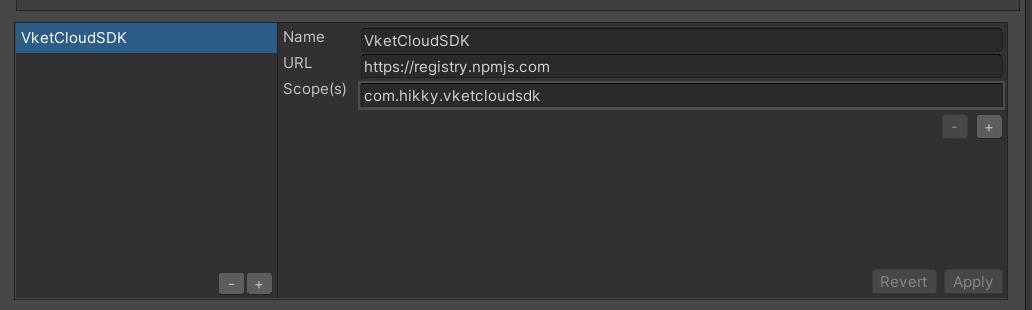
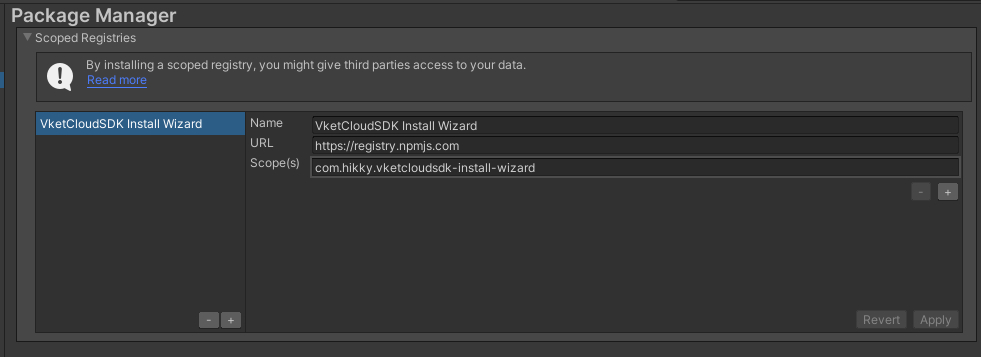
SDKの導入方法：インストールウィザードを使用した方法に内容を変更

diff --git a/docs/AboutVketCloudSDK/SetupSDK_external.en.md b/docs/AboutVketCloudSDK/SetupSDK_external.en.md
@@ -19,11 +19,11 @@ Select "Package Manager" from the left tab in the window and describe as follows
   
 | item | value |
 | ---- | ---- |
-| Name | VketCloud SDK |
+| Name | VketCloudSDK Install Wizard |
 | URL | https://registry.npmjs.com |
-| Scope(s) | com.hikky.vketcloudsdk |
+| Scope(s) | com.hikky.vketcloudsdk-install-wizard |  
 
-   ![Package](img/package.png)
+   ![Package](img/package.jpg)
   Finally, press the "Save" button to save the settings.
   
 ---
@@ -33,21 +33,87 @@ Open the "Packages" window from Unity's menu Window > Package Manager.
 
 Select "My Registries" from the dropdown at the top of the window.
 
-   ![registry](img/registry.png)
+   ![registry](img/registry.jpg)
 
 Select VketCloudSDK from the displayed list and press the “Install” button to start the installation.<br>
 As on default the latest SDK version will be installed, follow the instructions below if you want to [install a specified version](#installing-a-specified-version--updating-an-existing-sdk).
 
 Installation is complete if the item "VketCloudSDK" is added to the Unity menu.
 
-   ![header](img/header.png)
+![InstallationWizard_Window](img/InstallationWizard_Window.jpg)
 
-## Installing a specified version / Updating an existing SDK
-For installing a specified SDK version, or updating an existing SDK on project, switch the SDK version via the Package Manager or by editing manifest.json.
+![InstallationWizard_Menu](img/InstallationWizard_Menu.jpg)
+
+## Step 4. インストールウィザードを使用してSDKをインストールする
+
+新規にSDKをインストールする際はSDKインストールウィザードを使用します。
+
+1\. Unityのメニューから SDK Installation Wizardを選択します。
+
+![InstallationWizard_Menu](img/InstallationWizard_Menu.jpg)
+
+    インストールウィザードを開くと、以下の画面が起動します。
+
+![InstallationWizard_Window](img/InstallationWizard_Window.jpg)
+
+2\. 「次へ」ボタンを押して、言語設定画面に移動します。言語設定画面でWizard内で使用する言語を設定できます。
+
+![InstallationWizard_2_en](img/InstallationWizard_2_en.jpg)
+
+3\. VketCloud SDKの初期設定をガイドする画面です。主に三つの設定を完了させてください。<br>初期設定しないことも可能ですが、その場合、SDKの動作保証はできません。
+
+![InstallationWizard_3_en](img/InstallationWizard_3_en.jpg)
+
+4\. 設定が完了されるとそれぞれの設定項目の左にチェックマークが表示されます。<br>設定されない状態で「次へ」ボタンを押すと以下警告画面が表示されます。
+
+![InstallationWizard_4_en](img/InstallationWizard_4_en.jpg)
+
+5\.「次へ」ボタンを押すと、バージョン選択画面が表示されます。<br>安定版、最新版、バージョンアーカイブからバージョンを選択できます。
 
 !!! note caution
-      On updating an existing SDK, Components may be gone missing after the update.<br>
-      We strongly recommend to take a backup of the pre-update project by duplicating files.
+    バージョンアーカイブ内のバージョンは廃止が予定されております。<br>新規のワールド制作には使用しないようご注意ください。
+
+![InstallationWizard_5_en](img/InstallationWizard_5_en.jpg)
+
+6\. バージョンを選択し、インストールボタンを押すとパッケージのインポートが開始します。
+
+![InstallationWizard_6_en](img/InstallationWizard_6_en.jpg)
+
+7\.　およそ２～５分待つと、インストールが完了して以下の画面が表示されます。この画面からSDKマニュアルやコミュニティDiscordサーバーへとアクセスできます。
+
+![InstallationWizard_7_en](img/InstallationWizard_7_en.jpg)
+
+# 任意のバージョンの導入・既存バージョンSDKのアップデート
+
+既にSDKを導入しているプロジェクトについては、SDK Version Managerを使用してバージョンの切り替え・アップデートが可能です。<br>
+また、以前のSDKバージョンのようにPackage Managerあるいはmanifest.jsonの編集によるバージョン切り替えも引き続き利用可能です。
+
+## SDK Version Managerによるバージョン切り替え
+
+1\. VketCloudSDK_Wizard > SDK Version Managerを押して、バージョン選択画面が表示されます。
+
+![SDKVersionManager_1](img/SDKVersionManager_1.jpg)
+
+2\. バージョン選択画面でバージョンを選択し、インストールボタンを押してください。
+
+!!! note caution
+    バージョンアーカイブ内のバージョンは廃止が予定されております。<br>新規のワールド制作には使用しないようご注意ください。
+
+![InstallationWizard_5_en](img/InstallationWizard_5_en.jpg)
+
+3\. インストールボタンを押すと、インポート画面に移動します。
+
+![SDKVersionManager_3_en](img/SDKVersionManager_3_en.jpg)
+
+4\. インストールが完了すると、バージョン選択完了画面が表示されます。
+
+![SDKVersionManager_4_en](img/SDKVersionManager_4_en.jpg)
+
+この画面からSDKマニュアルやコミュニティDiscordサーバーへとアクセスできます。
+
+!!! note caution
+      既存のSDKのバージョンアップを行う際、アップデート後にComponentが欠落する現象が確認されています。<br>
+      バージョンアップを行う際はプロジェクトの複製などによってバージョンアップ前の状態のバックアップを取ることを強くおすすめします。
 
 ### Version switching via Package Manager
 

diff --git a/docs/changelog/changelog-9.3.ja.md b/docs/changelog/changelog-9.3.ja.md
@@ -1,6 +1,8 @@
 # 追加されたページ
 
 # 変更されたページ
+- [VketCloudSDKの導入方法](https://vrhikky.github.io/VketCloudSDK_Documents/9.3/ja/AboutVketCloudSDK/SetupSDK_external.html)
+    - インストールウィザード及びVersion Managerの使用方法を追加
 - [テクスチャ圧縮](https://vrhikky.github.io/VketCloudSDK_Documents/9.3/ja/heoexporter/he_TextureCompression.html)
     - pvrtcに加えてdxt変換が廃止になったため記述から削除
 

diff --git a/docs/changelog/changelog-9.3.en.md b/docs/changelog/changelog-9.3.en.md
@@ -1,6 +1,8 @@
 # Added Pages
 
 # Edited Pages
+- [How to install VketCloud SDK](https://vrhikky.github.io/VketCloudSDK_Documents/9.3/AboutVketCloudSDK/SetupSDK_external.html)
+    - Added instructions on how to use the install wizard / version manager (English Version WIP)
 - [Texture Compression](https://vrhikky.github.io/VketCloudSDK_Documents/9.3/heoexporter/he_TextureCompression.html)
     - Deleted info of deprecated dxt conversion likewise former pvrtc conversion
     
